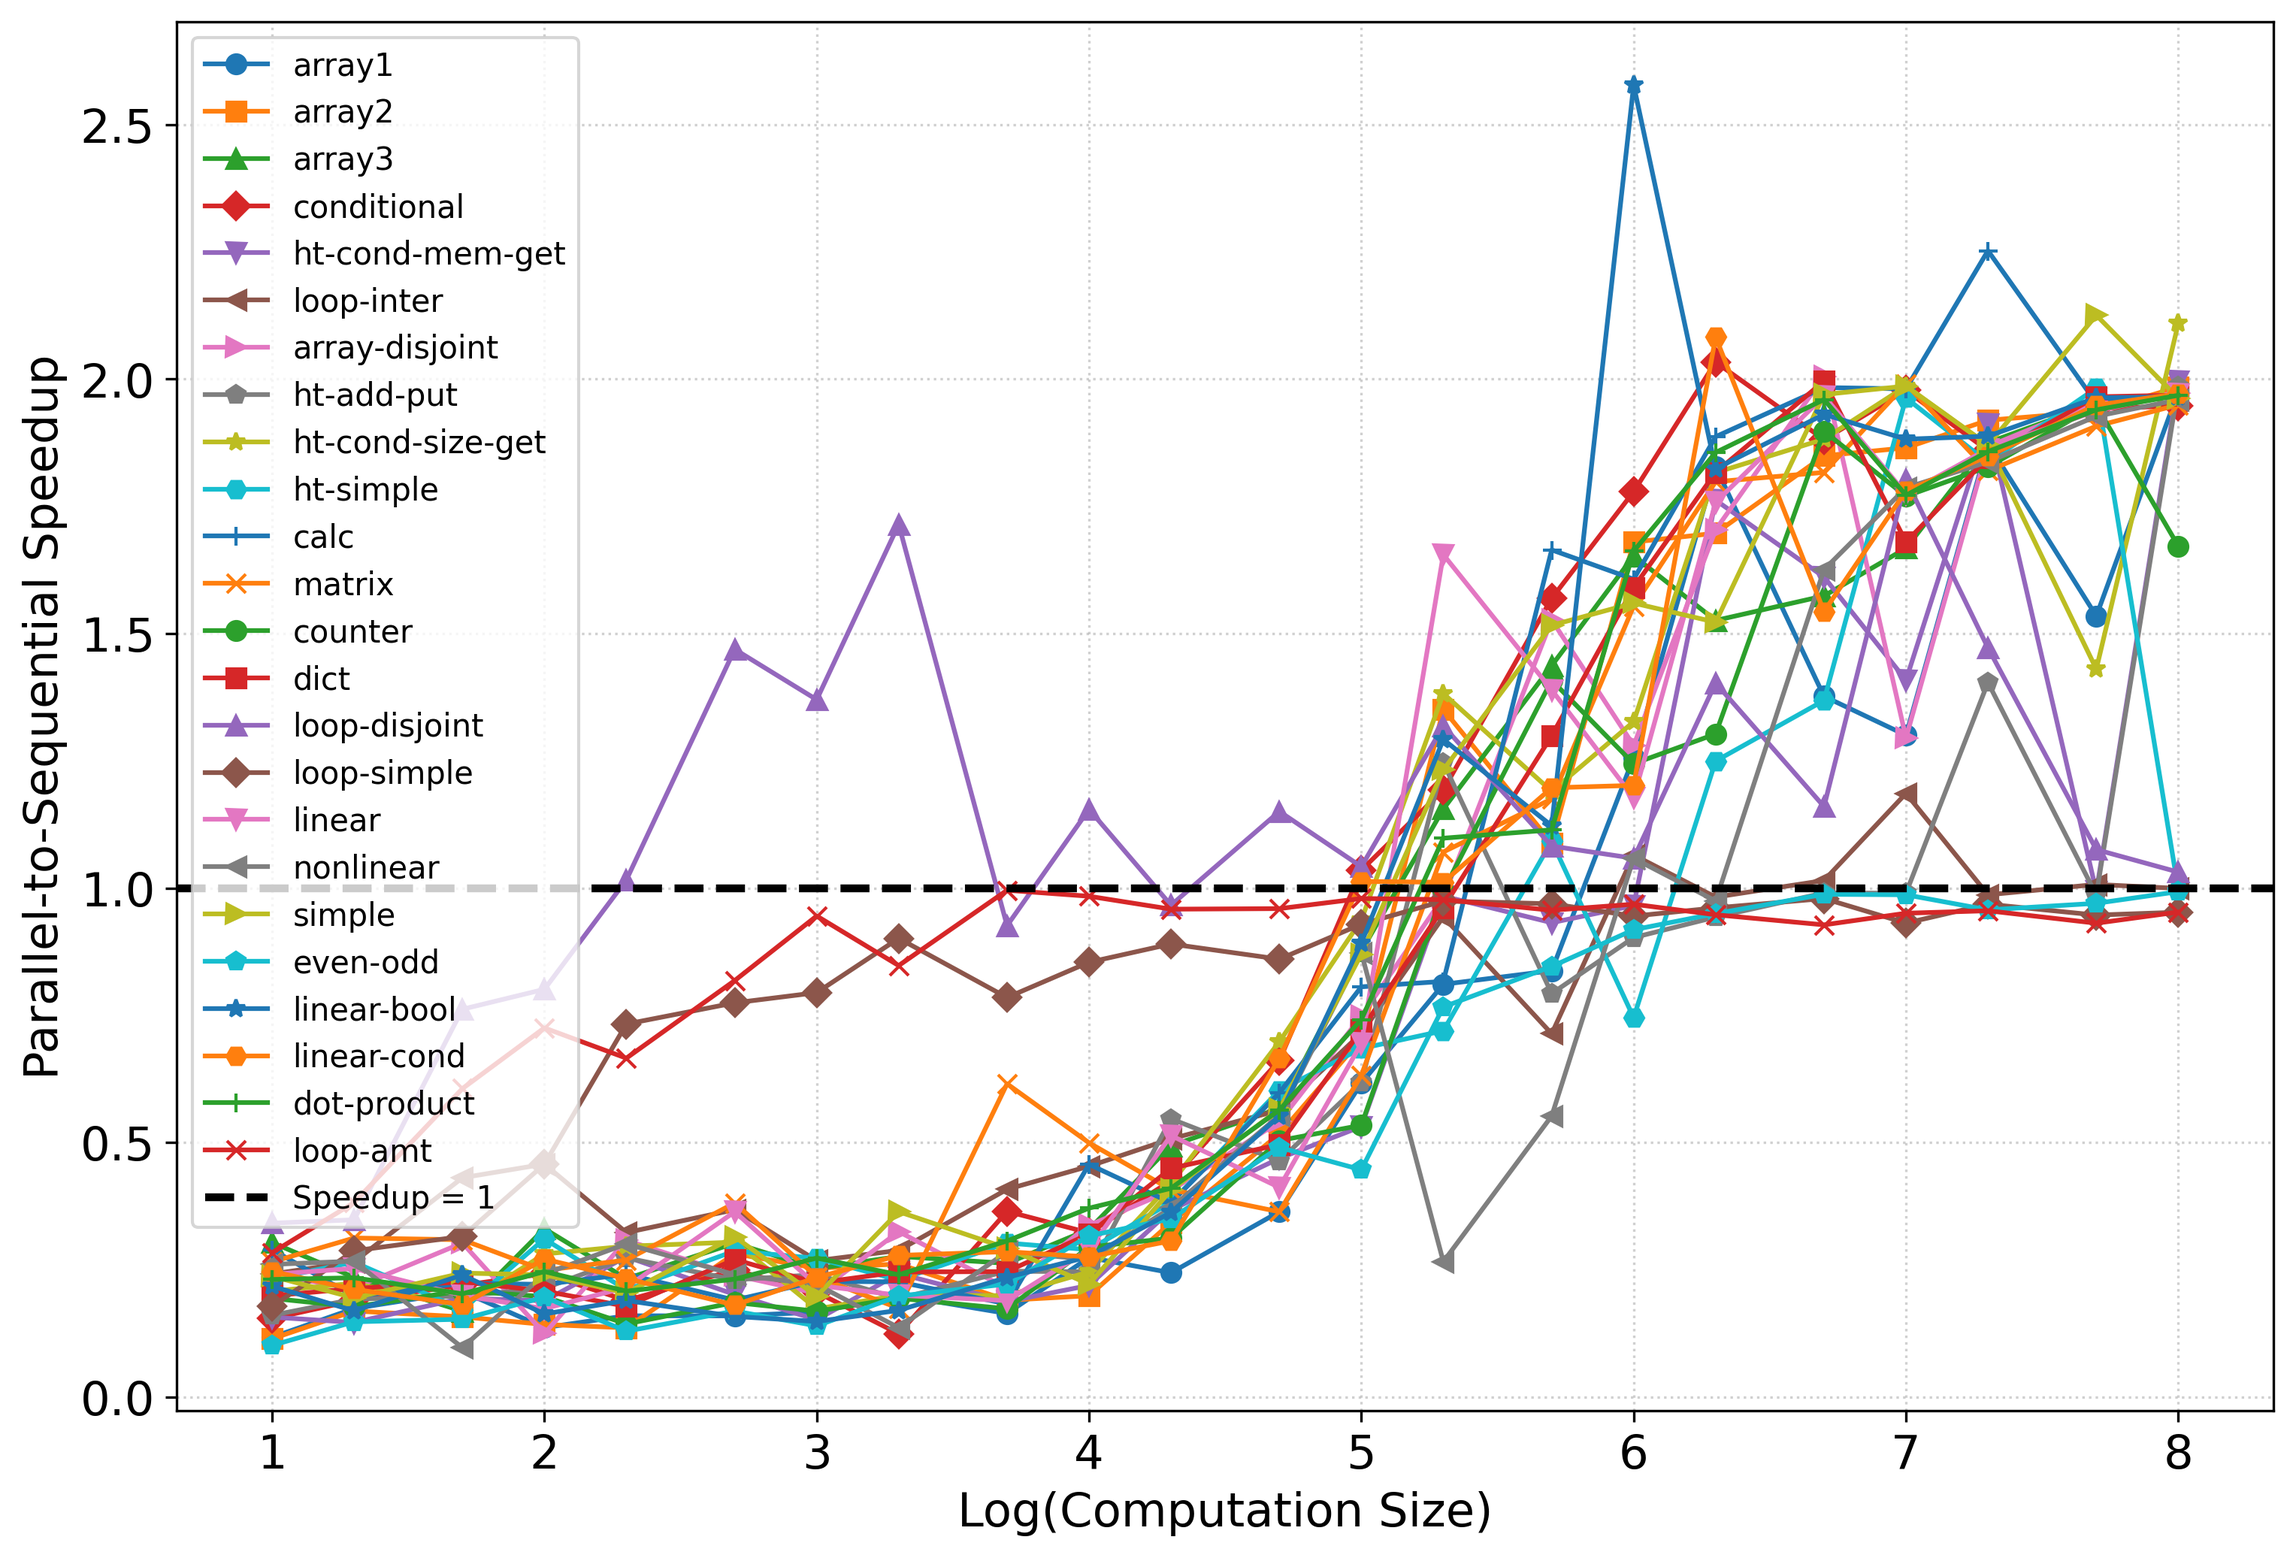
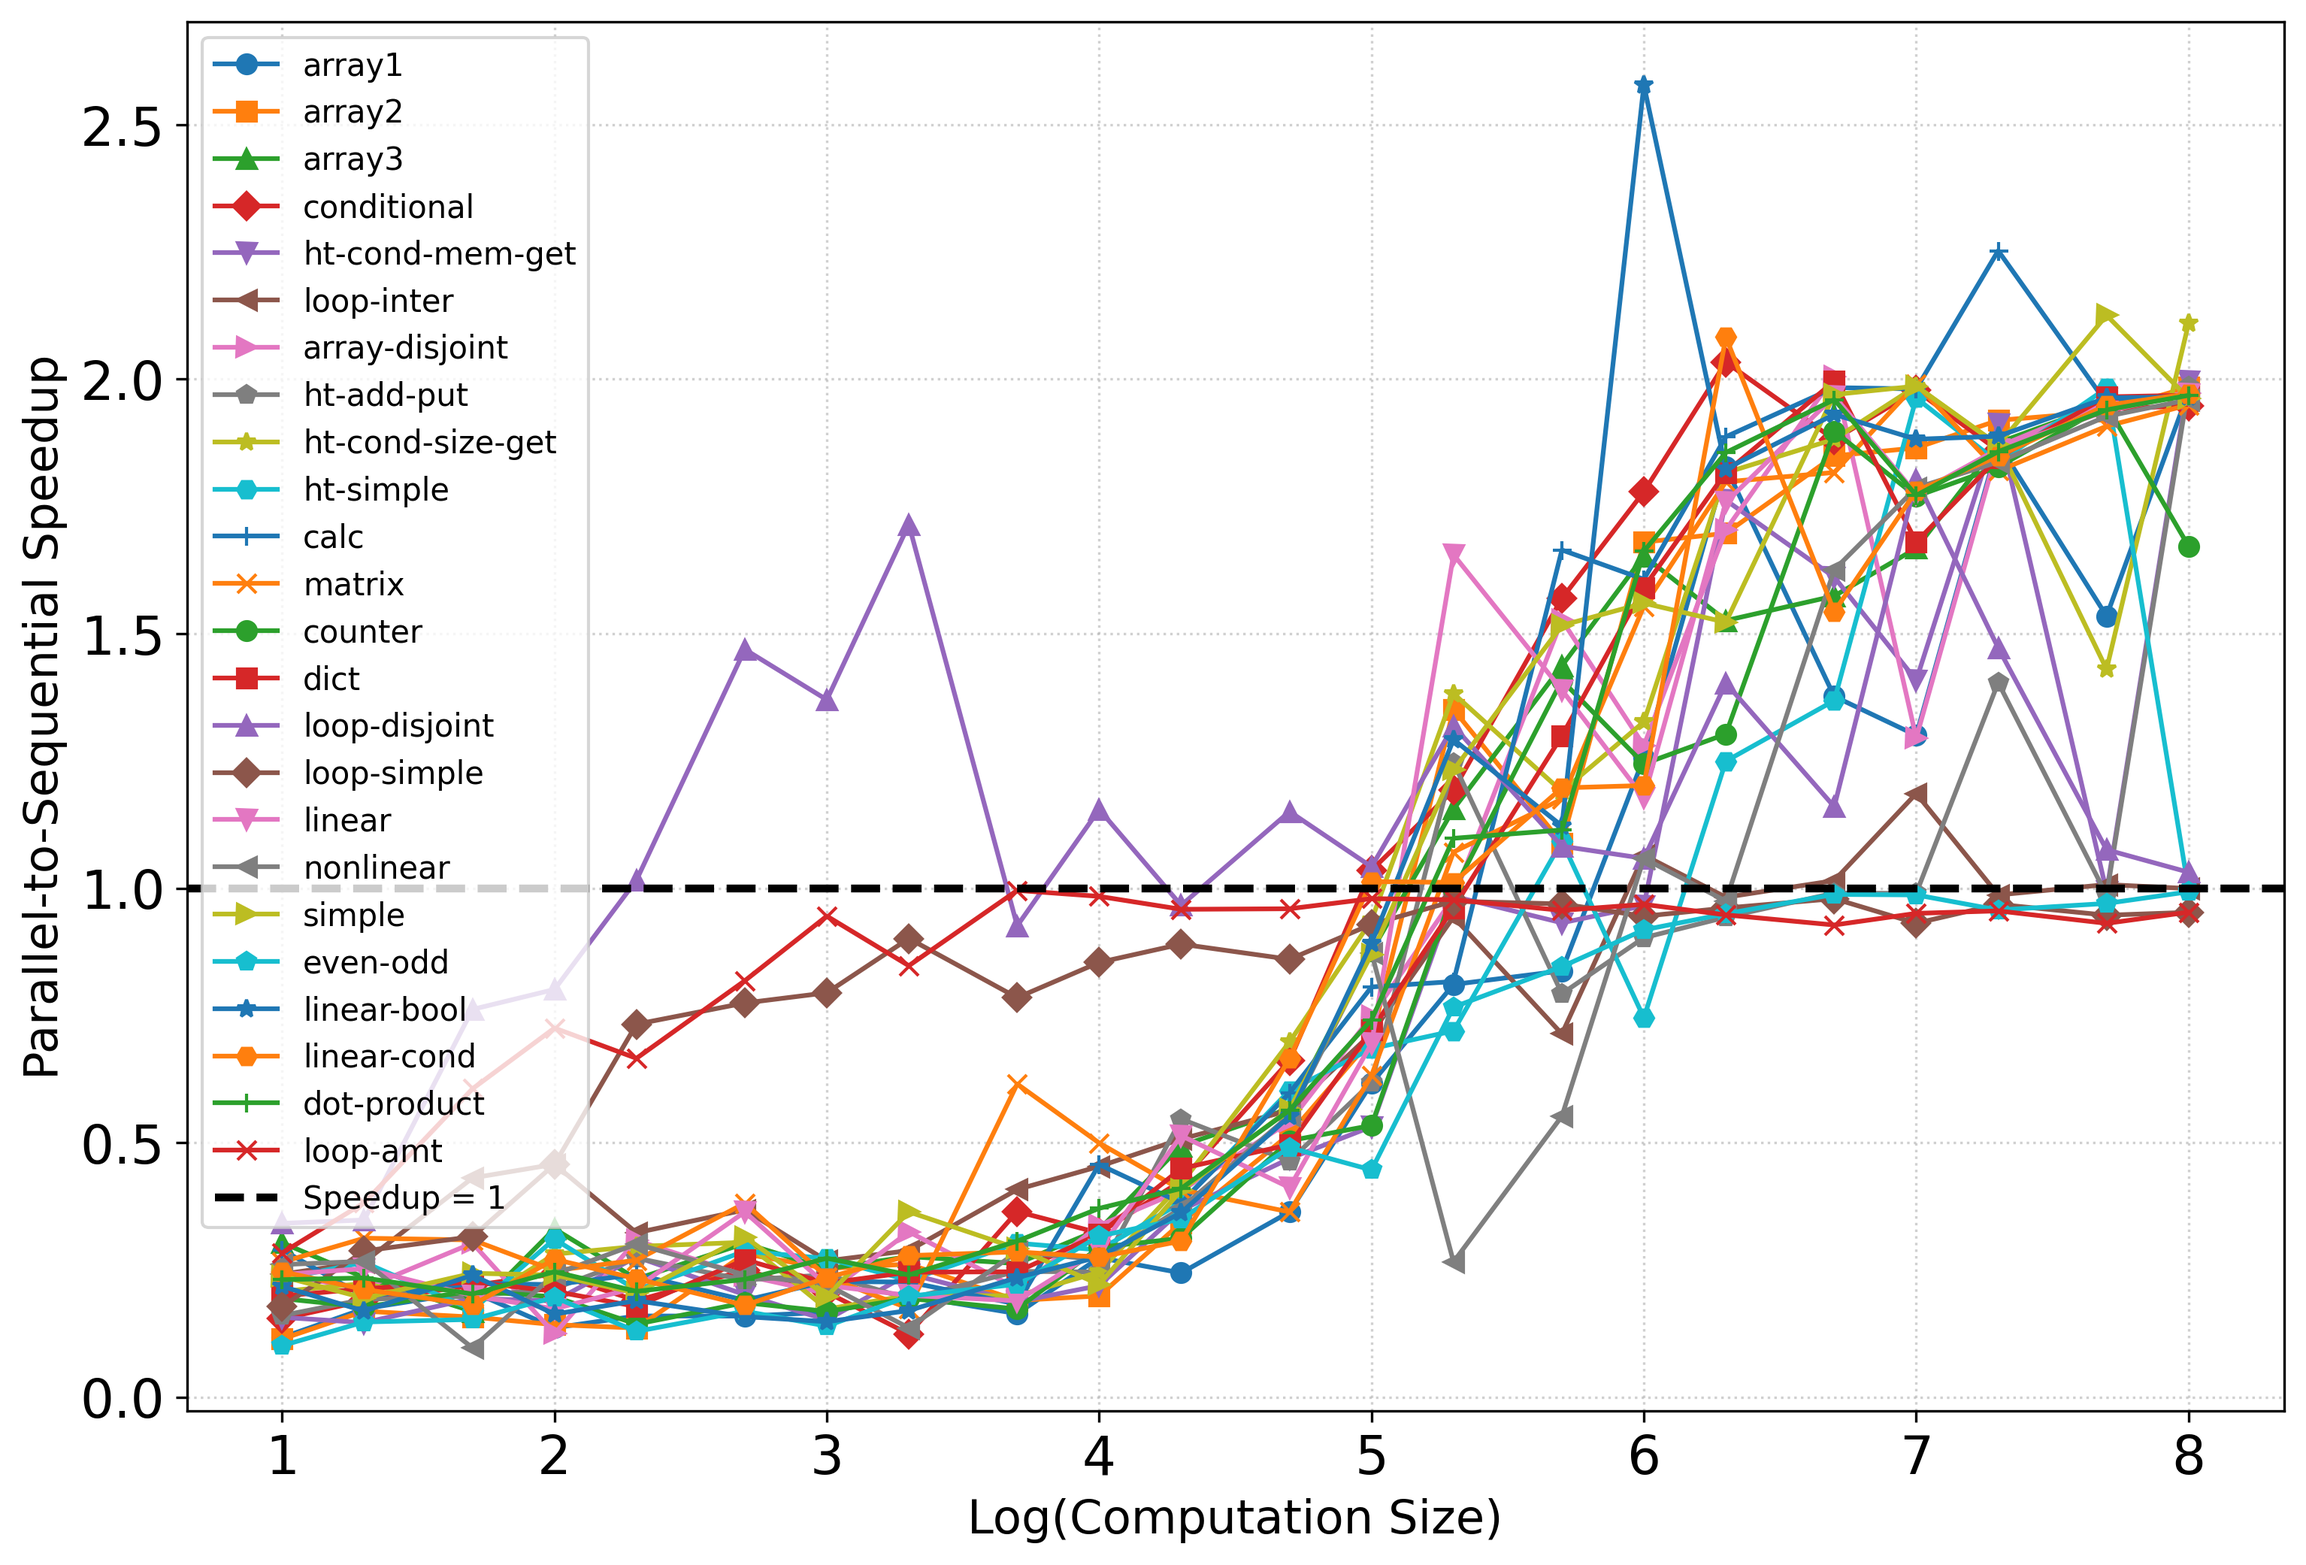
veracity plots

diff --git a/reports/speedup_plot_veracity.py b/reports/speedup_plot_veracity.py
@@ -38,12 +38,12 @@ for i, column in enumerate(columns):
 # Add horizontal line for speedup = 1
 plt.axhline(y=1, color='black', linestyle='--', label='Speedup = 1', linewidth=2.5)
 
-plt.xticks(fontsize=15)
-plt.yticks(fontsize=15)
+plt.xticks(fontsize=17)
+plt.yticks(fontsize=17)
 
 # plt.xlabel('Log(Computation Size)', fontsize=15)
 # plt.ylabel('Parallel-to-Sequential Speedup', fontsize=15)
-plt.grid(True)
+plt.grid(True, linestyle=':', alpha=0.6)
 
 plt.savefig(output_plot_file, dpi=300, bbox_inches='tight', transparent=True)
 
